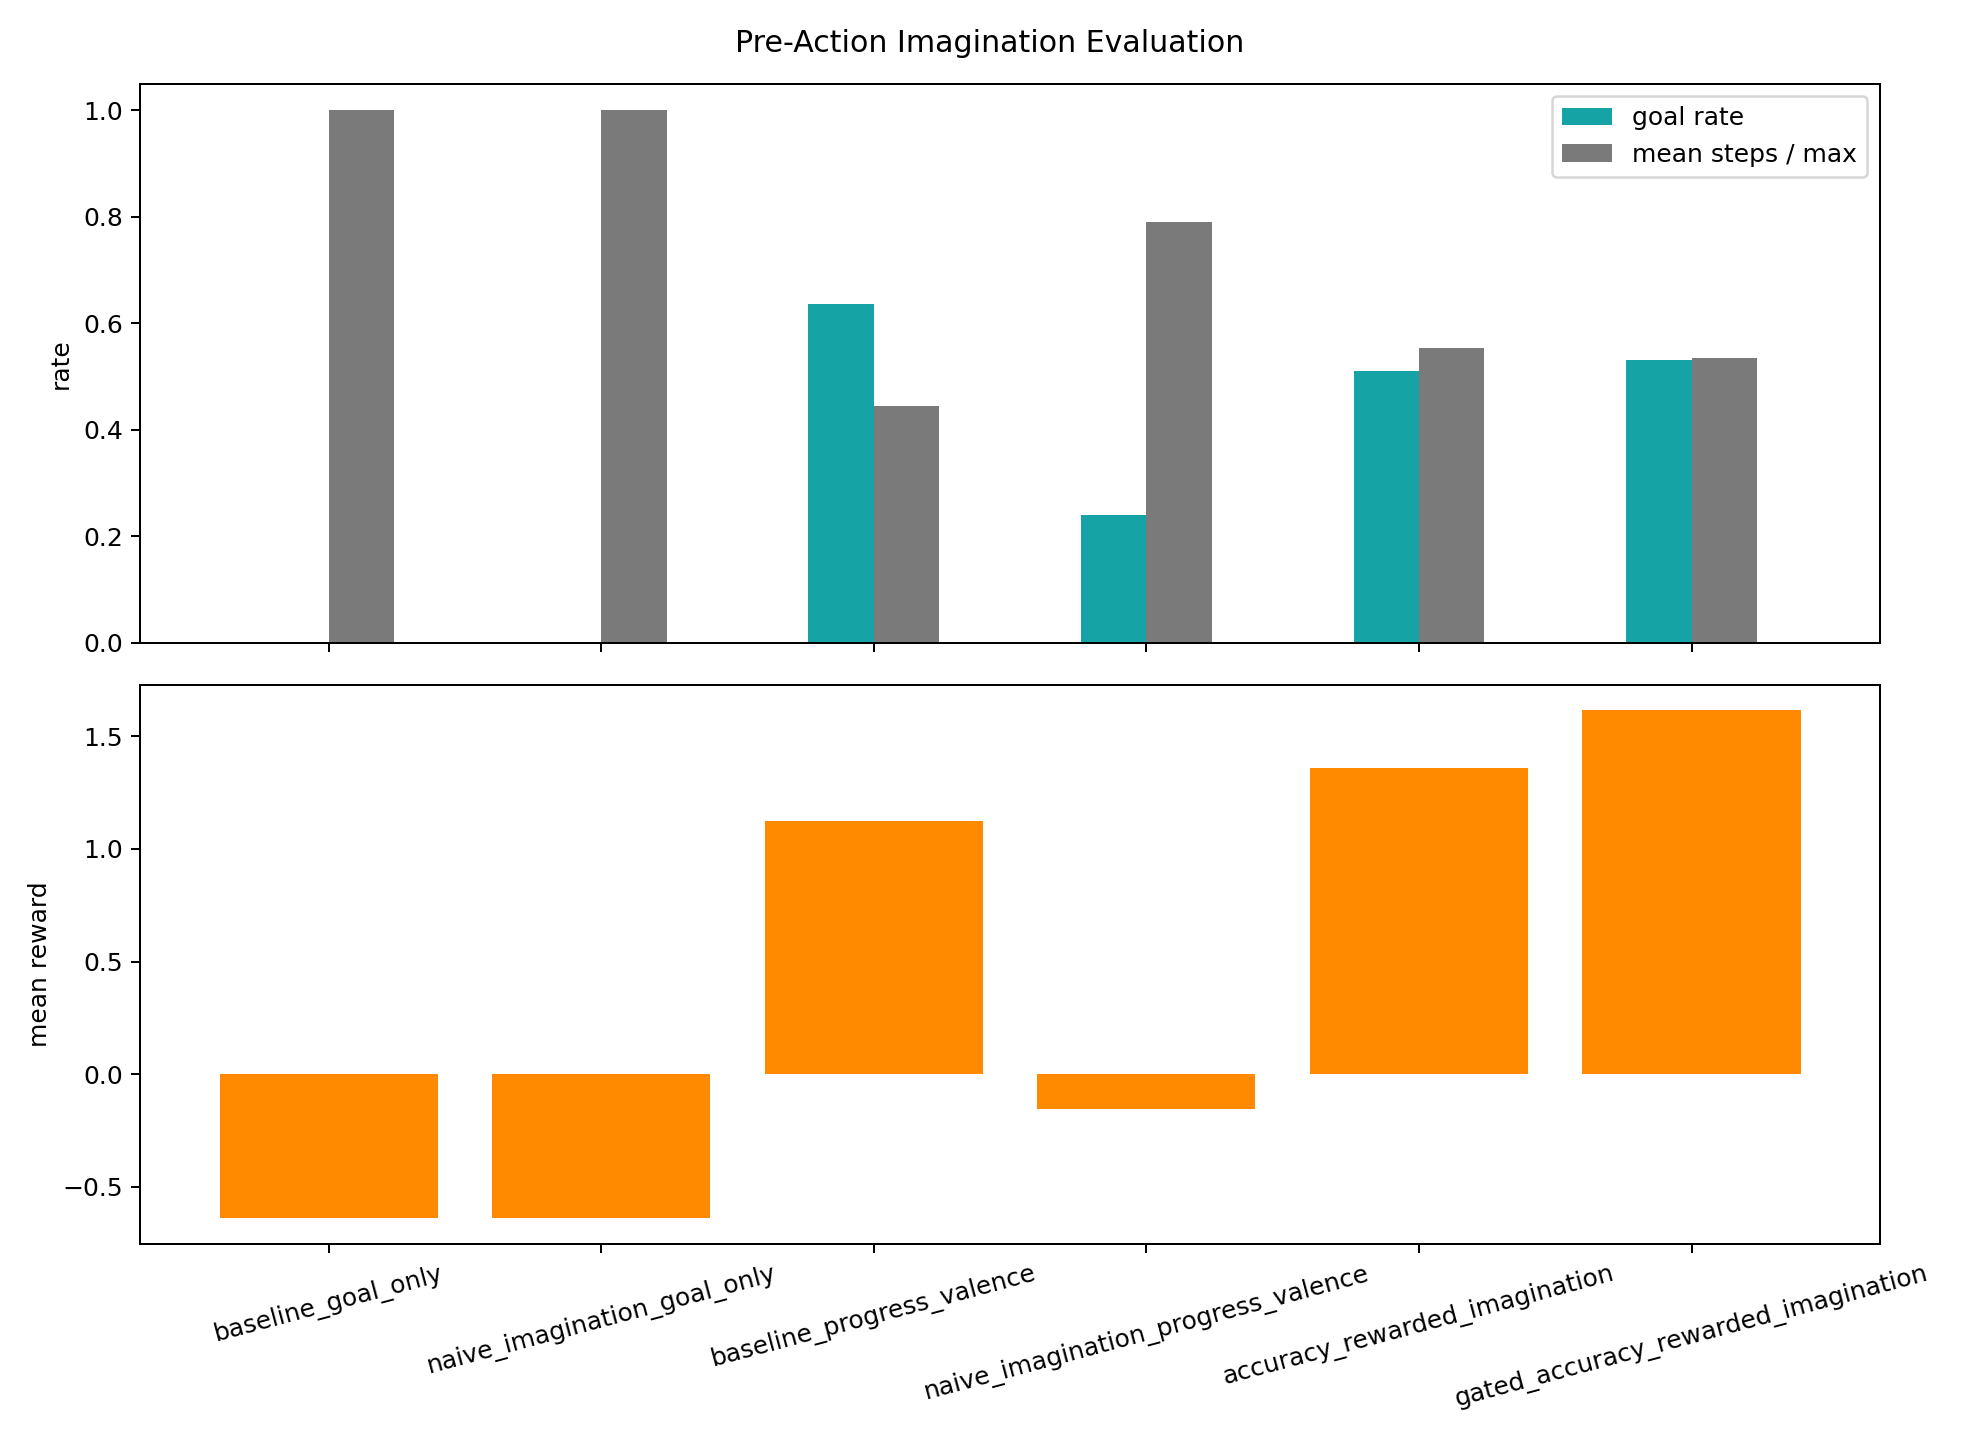
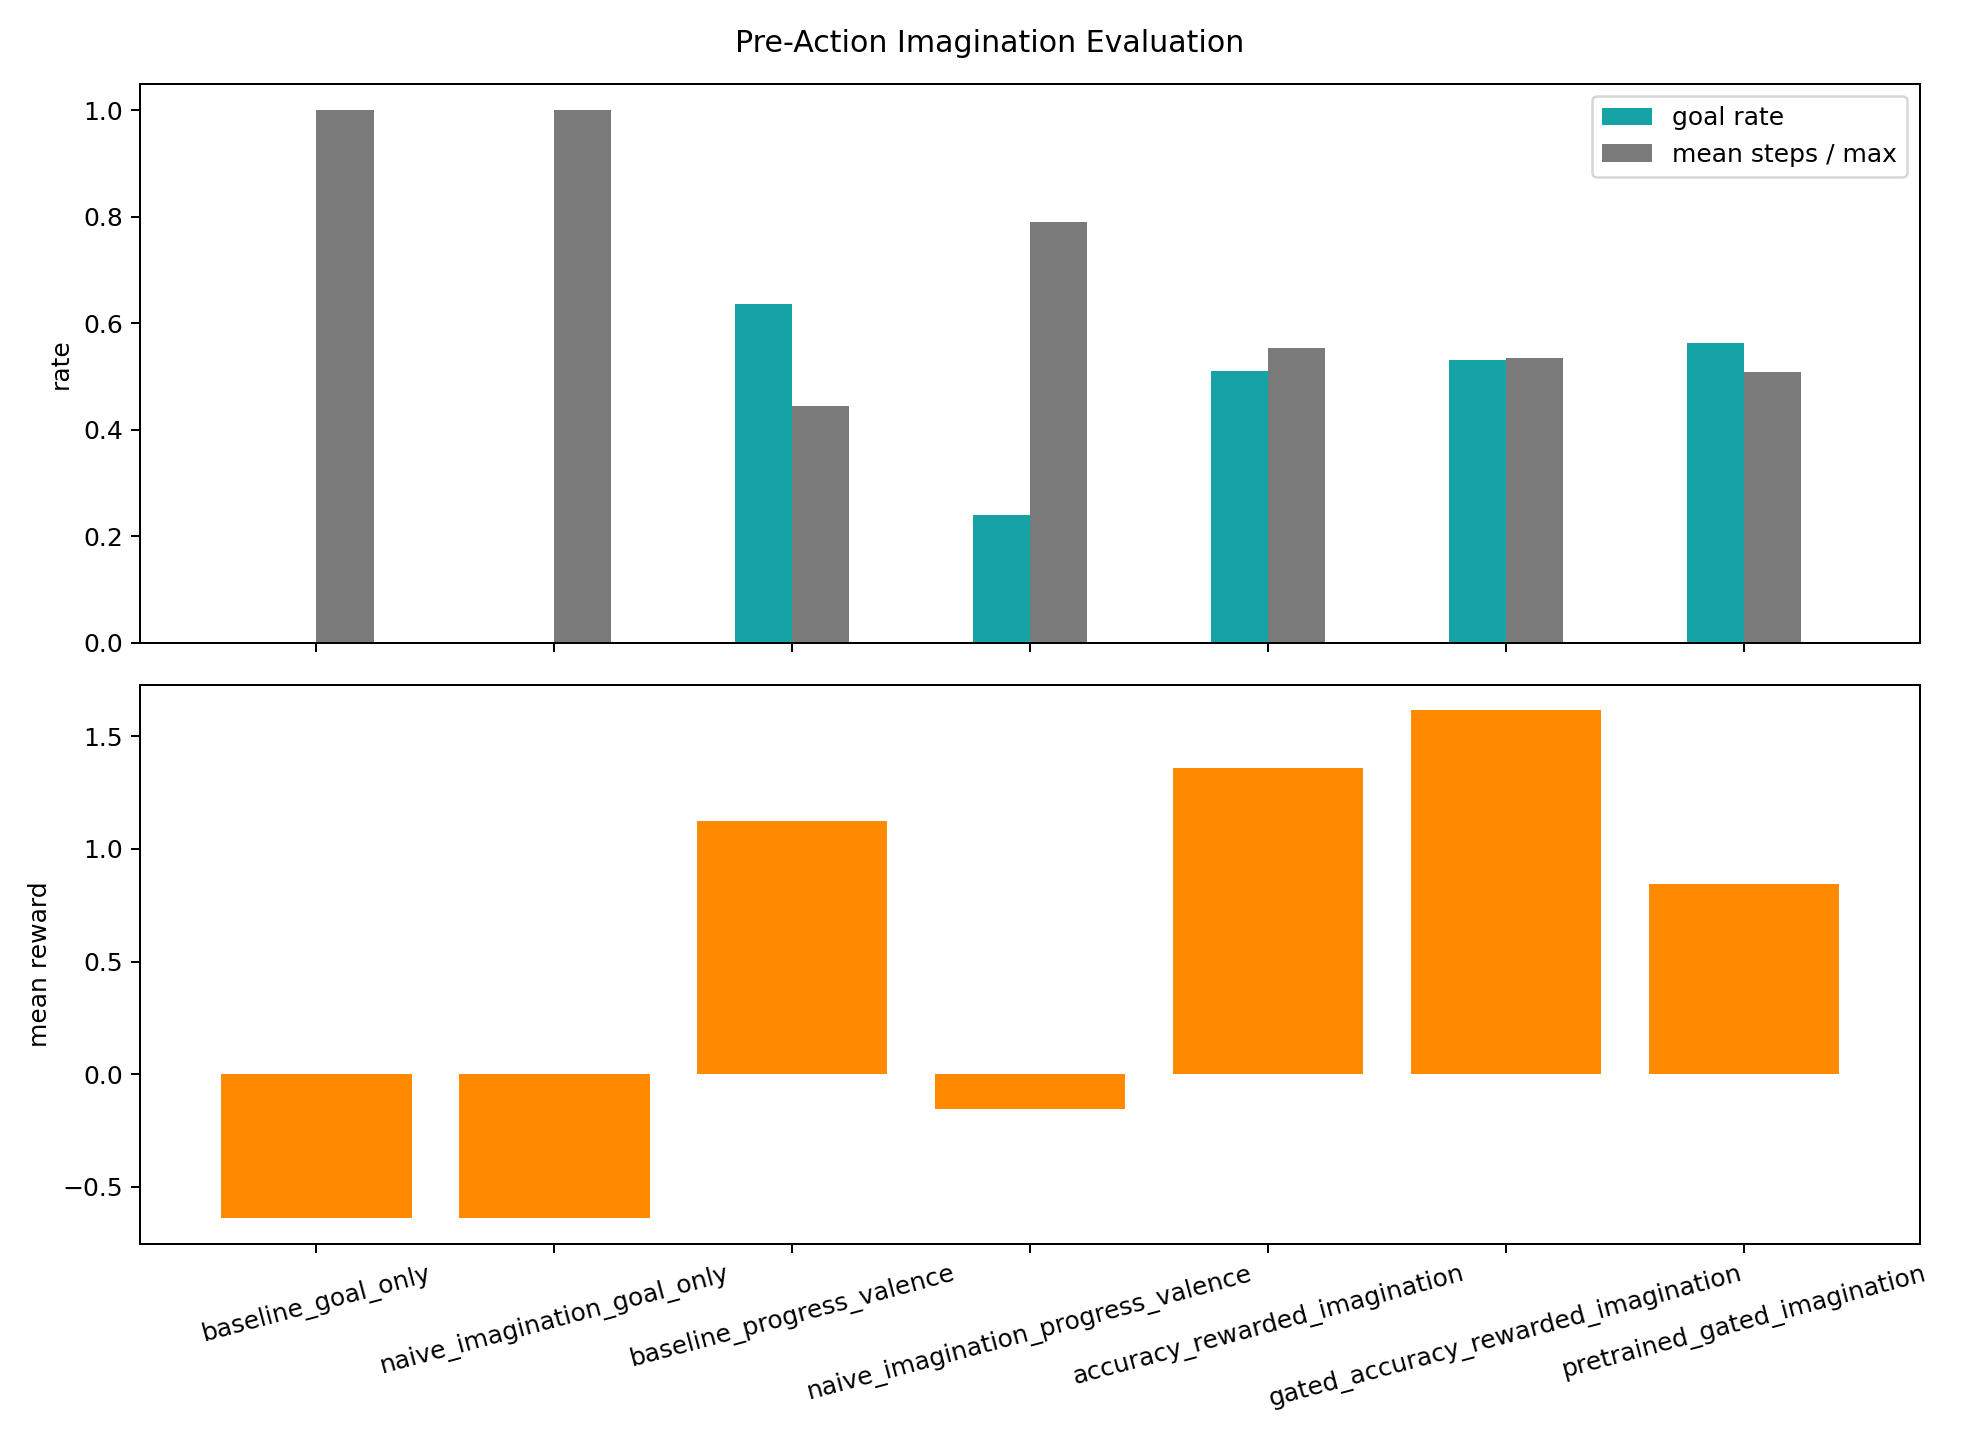
Add pretrained imagination variant

diff --git a/imagination_lab.py b/imagination_lab.py
@@ -113,9 +113,36 @@ def run_episode(agent, env, train=True, imagination_mode="none", imagination_str
     }
 
 
-def train_condition(label, mode, hidden_dim=32, imagination_mode="none", episodes=900, eval_runs=96):
+def pretrain_world_model(agent, env, episodes=450):
+    """Train the recurrent representation and world model from random rollouts."""
+    opt = torch.optim.Adam(agent.parameters(), lr=0.004)
+    losses = []
+    for _ in range(episodes):
+        obs = env.reset()
+        h = agent.initial_state()
+        episode_losses = []
+        for _ in range(env.max_steps):
+            h, _, _, _, _ = agent.forward_step(obs, h)
+            action = torch.randint(0, 3, ()).item()
+            pred_next = agent.predict_next_obs(h, action)
+            result = env.step(action)
+            episode_losses.append(F.mse_loss(pred_next, result.obs))
+            obs = result.obs
+            if result.done:
+                break
+        loss = torch.stack(episode_losses).mean()
+        opt.zero_grad()
+        loss.backward()
+        torch.nn.utils.clip_grad_norm_(agent.parameters(), 1.0)
+        opt.step()
+        losses.append(float(loss.detach()))
+    return losses
+
+
+def train_condition(label, mode, hidden_dim=32, imagination_mode="none", episodes=900, eval_runs=96, pretrain=False):
     env = ShapingWorld(mode)
     agent = TinyRecurrentAgent(obs_dim=env.obs_dim, hidden_dim=hidden_dim, actions=5)
+    pretrain_losses = pretrain_world_model(agent, env) if pretrain else []
     opt = torch.optim.Adam(agent.parameters(), lr=0.006)
     training = {"reward": [], "goal_rate": [], "button_rate": [], "steps": [], "imagination_bonus": [], "imagination_accuracy": []}
 
@@ -140,6 +167,8 @@ def train_condition(label, mode, hidden_dim=32, imagination_mode="none", episode
         "mode": mode,
         "hidden_dim": hidden_dim,
         "imagination_mode": imagination_mode,
+        "pretrained_world_model": pretrain,
+        "pretrain_final_loss": float(np.mean(pretrain_losses[-25:])) if pretrain_losses else None,
         "training": training,
         "eval_goal_rate": sum(1 for r in evals if "goal" in r["events"]) / len(evals),
         "eval_hazard_rate": sum(1 for r in evals if "hazard" in r["events"]) / len(evals),
@@ -200,22 +229,25 @@ def main():
     set_seed(41)
     OUT.mkdir(exist_ok=True)
     configs = [
-        ("baseline_goal_only", "goal_only", "none"),
-        ("naive_imagination_goal_only", "goal_only", "naive"),
-        ("baseline_progress_valence", "large_progress_reward", "none"),
-        ("naive_imagination_progress_valence", "large_progress_reward", "naive"),
-        ("accuracy_rewarded_imagination", "large_progress_reward", "accuracy_rewarded"),
-        ("gated_accuracy_rewarded_imagination", "large_progress_reward", "gated_accuracy_rewarded"),
+        ("baseline_goal_only", "goal_only", "none", False),
+        ("naive_imagination_goal_only", "goal_only", "naive", False),
+        ("baseline_progress_valence", "large_progress_reward", "none", False),
+        ("naive_imagination_progress_valence", "large_progress_reward", "naive", False),
+        ("accuracy_rewarded_imagination", "large_progress_reward", "accuracy_rewarded", False),
+        ("gated_accuracy_rewarded_imagination", "large_progress_reward", "gated_accuracy_rewarded", False),
+        ("pretrained_gated_imagination", "large_progress_reward", "gated_accuracy_rewarded", True),
     ]
     results = {
-        label: train_condition(label, mode, imagination_mode=imagination_mode)
-        for label, mode, imagination_mode in configs
+        label: train_condition(label, mode, imagination_mode=imagination_mode, pretrain=pretrain)
+        for label, mode, imagination_mode, pretrain in configs
     }
     serializable = {
         label: {
             "mode": data["mode"],
             "hidden_dim": data["hidden_dim"],
             "imagination_mode": data["imagination_mode"],
+            "pretrained_world_model": data["pretrained_world_model"],
+            "pretrain_final_loss": data["pretrain_final_loss"],
             "eval_goal_rate": data["eval_goal_rate"],
             "eval_hazard_rate": data["eval_hazard_rate"],
             "eval_button_rate": data["eval_button_rate"],

diff --git a/README.md b/README.md
@@ -319,6 +319,7 @@ baseline_progress_valence:             goal_rate 0.635, mean_steps 14.21
 naive_imagination_progress_valence:    goal_rate 0.240, mean_steps 25.29
 accuracy_rewarded_imagination:         goal_rate 0.510, mean_steps 17.71
 gated_accuracy_rewarded_imagination:   goal_rate 0.531, mean_steps 17.13
+pretrained_gated_imagination:          goal_rate 0.563, mean_steps 16.25
 ```
 
 Naive imagination did not help. It hurt the progress-valence agent, likely
@@ -328,6 +329,12 @@ intuition.
 Rewarding imagination for matching reality helped recover much of the lost
 performance. Adding a confidence gate helped a little more. But neither grounded
 imagination variant beat the plain progress-valence baseline in this run.
+
+Pretraining the world model before reinforcement learning improved imagination
+accuracy and goal completion compared with non-pretrained gated imagination, but
+it still did not beat the plain progress-valence baseline. This suggests that
+better world modeling helps, but the current imagination prior is still too
+crude or too costly.
 
 This suggests another useful boundary:
 